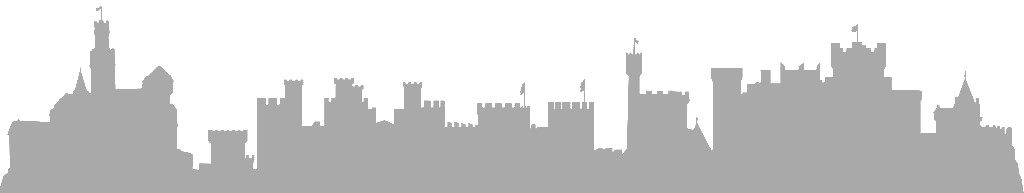
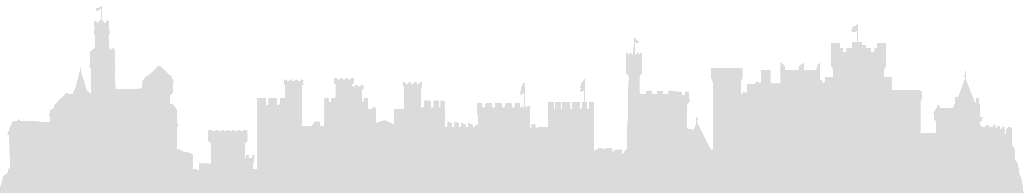
deleted unused files, added skyline background to equipment store

diff --git a/src/style/_backgrounds.scss b/src/style/_backgrounds.scss
@@ -51,7 +51,7 @@
 }
 
 .town-skyline-background {
-  @include image-background-mixin('../assets/images/medeival-town-skyline.png', bottom right, 50%)
+  @include image-background-mixin('../assets/images/medeival-town-skyline.png', bottom right, 60%)
 }
 
 .dice-background {

diff --git a/src/router-pages/CharacterSheetPage/EquipmentStore/EquipmentStore.js b/src/router-pages/CharacterSheetPage/EquipmentStore/EquipmentStore.js
@@ -14,7 +14,7 @@ function EquipmentStore() {
   ) )
 
   return (
-    <div>
+    <div className="town-skyline-background">
 
       <h2 id="equipment-store-header" className="centered">Equipment Store</h2>
 
